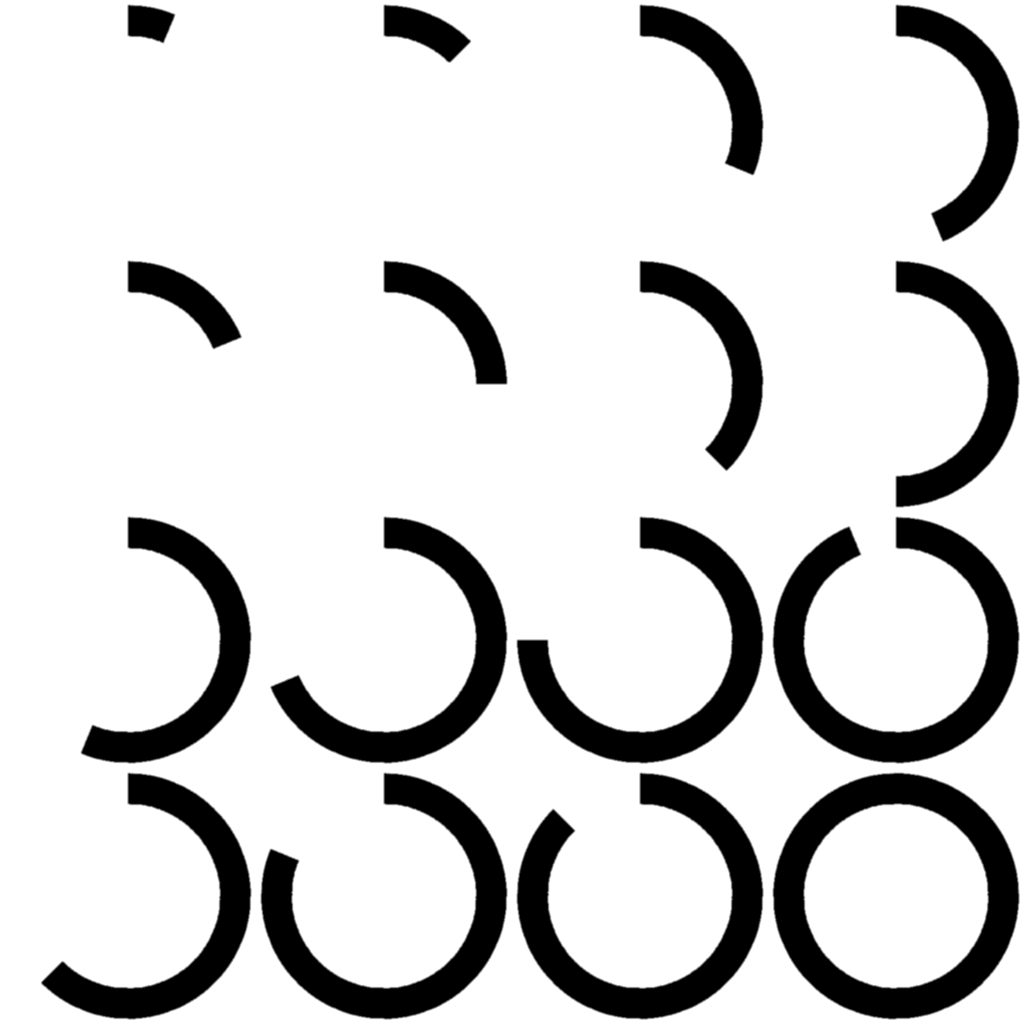
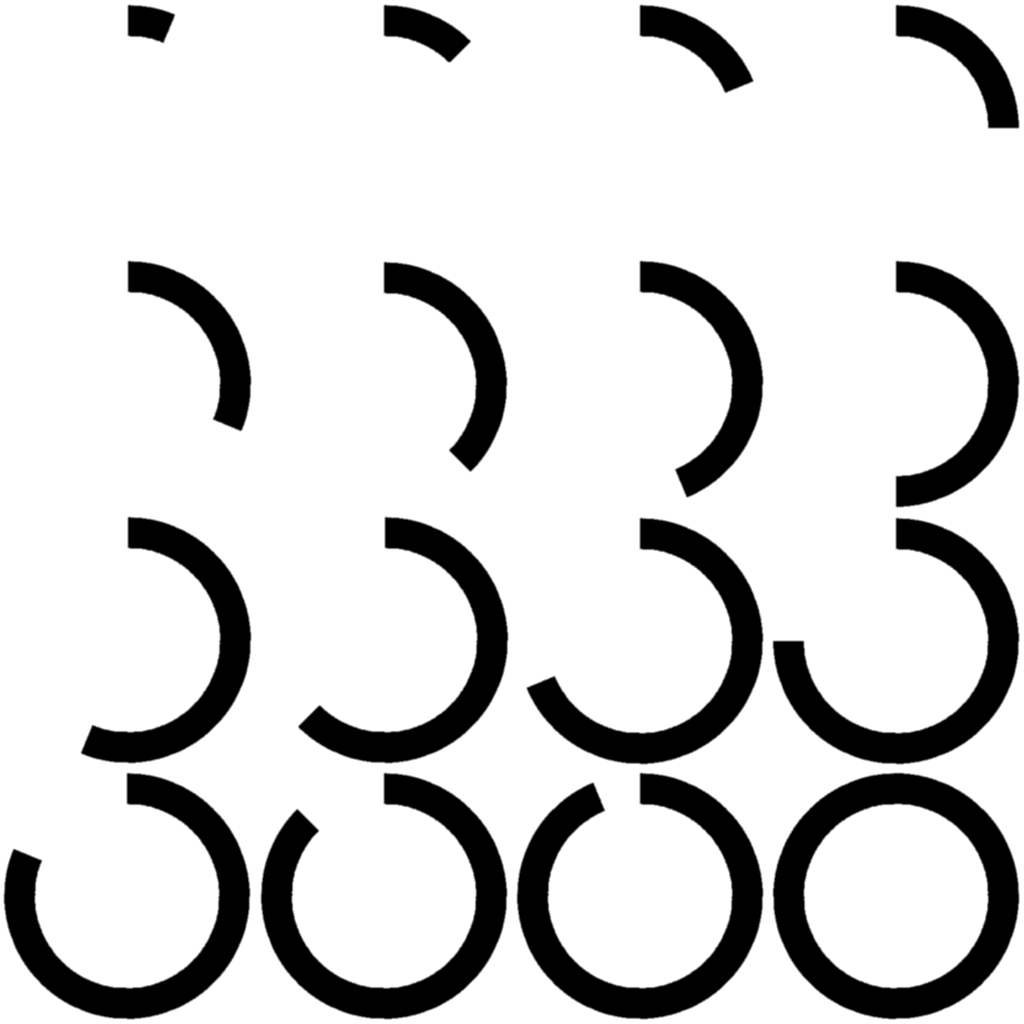
Progress bar progress and entity organization.

diff --git a/src/kosmos/uis/OverlayHUD.java b/src/kosmos/uis/OverlayHUD.java
@@ -10,11 +10,14 @@
 package kosmos.uis;
 
 import flounder.devices.*;
+import flounder.framework.*;
 import flounder.guis.*;
+import flounder.logger.*;
 import flounder.maths.*;
 import flounder.resources.*;
 import flounder.textures.*;
 import kosmos.*;
+import kosmos.world.*;
 
 import java.util.*;
 
@@ -28,9 +31,9 @@ public class OverlayHUD extends GuiComponent {
 
 	public OverlayHUD() {
 		this.hudTexture = TextureFactory.newBuilder().setFile(new MyFile(MyFile.RES_FOLDER, "guis", "hudSprites.png")).setNumberOfRows(3).create();
-		this.statusHealth = new HudStatus(hudTexture, 2, 0.0f);
-		this.statusThirst = new HudStatus(hudTexture, 4, 0.1f);
-		this.statusHunger = new HudStatus(hudTexture, 5, 0.2f);
+		this.statusHealth = new HudStatus(hudTexture, 2, 0.0f, new Colour(1.0f, 0.2f, 0.2f));
+		this.statusThirst = new HudStatus(hudTexture, 4, 0.1f, new Colour(0.2f, 0.2f, 1.0f));
+		this.statusHunger = new HudStatus(hudTexture, 5, 0.2f, new Colour(1.0f, 0.4f, 0.0f));
 
 		this.crossHair = new GuiTexture(TextureFactory.newBuilder().setFile(new MyFile(MyFile.RES_FOLDER, "guis", "crosshair.png")).setNumberOfRows(4).create());
 		this.crossHair.setSelectedRow(KosmosConfigs.HUD_COSSHAIR_TYPE.setReference(() -> crossHair.getSelectedRow()).getInteger());
@@ -68,7 +71,9 @@ public class OverlayHUD extends GuiComponent {
 		private GuiTexture mainIcon;
 		private float offset;
 
-		private HudStatus(TextureObject hudTexture, int main, float offset) {
+		private float progress;
+
+		private HudStatus(TextureObject hudTexture, int main, float offset, Colour colour) {
 			this.background = new GuiTexture(hudTexture);
 			this.background.setSelectedRow(0);
 
@@ -76,8 +81,9 @@ public class OverlayHUD extends GuiComponent {
 			this.foreground.setSelectedRow(1);
 
 			this.circularProgress = new GuiTexture(TextureFactory.newBuilder().setFile(new MyFile(MyFile.RES_FOLDER, "guis", "circularProgress.png")).setNumberOfRows(4).create());
-			this.circularProgress.setSelectedRow((int) Math.floor(Maths.randomInRange(1, 16)));
-			this.circularProgress.setColourOffset(new Colour(1.0f, 0.2f, 0.2f));
+			this.circularProgress.setColourOffset(colour);
+
+			this.progress = (float) Math.random();
 
 			this.mainIcon = new GuiTexture(hudTexture);
 			this.mainIcon.setSelectedRow(main);
@@ -93,7 +99,9 @@ public class OverlayHUD extends GuiComponent {
 			foreground.setPosition(0.06f + offset, 0.94f, 0.08f, 0.08f);
 			foreground.update();
 
+			progress = KosmosWorld.getDayFactor();
 			circularProgress.setPosition(0.06f + offset, 0.94f, 0.08f, 0.08f);
+			circularProgress.setSelectedRow((int) Math.floor(progress * Math.pow(circularProgress.getTexture().getNumberOfRows(), 2)));
 			circularProgress.update();
 
 			mainIcon.setPosition(0.06f + offset, 0.94f, 0.06f, 0.06f);

diff --git a/src/kosmos/entities/instances/rocks/InstanceGemGreen.java b/src/kosmos/entities/instances/rocks/InstanceGemGreen.java
@@ -7,7 +7,7 @@
  * Proprietary and confidential
  */
 
-package kosmos.entities.instances;
+package kosmos.entities.instances.rocks;
 
 import flounder.entities.*;
 import flounder.lights.*;
@@ -19,18 +19,18 @@ import flounder.space.*;
 import flounder.textures.*;
 import kosmos.entities.components.*;
 
-public class InstanceGemRed extends Entity {
-	private static final ModelObject model = ModelFactory.newBuilder().setFile(new MyFile(FlounderEntities.ENTITIES_FOLDER, "gemRed", "gemRed.obj")).create();
-	private static final TextureObject texture = TextureFactory.newBuilder().setFile(new MyFile(FlounderEntities.ENTITIES_FOLDER, "gemRed", "gemRed.png")).create();
-	private static final TextureObject textureGlow = TextureFactory.newBuilder().setFile(new MyFile(FlounderEntities.ENTITIES_FOLDER, "gemRed", "gemRedGlow.png")).create();
+public class InstanceGemGreen extends Entity {
+	private static final ModelObject model = ModelFactory.newBuilder().setFile(new MyFile(FlounderEntities.ENTITIES_FOLDER, "gemGreen", "gemGreen.obj")).create();
+	private static final TextureObject texture = TextureFactory.newBuilder().setFile(new MyFile(FlounderEntities.ENTITIES_FOLDER, "gemGreen", "gemGreen.png")).create();
+	private static final TextureObject textureGlow = TextureFactory.newBuilder().setFile(new MyFile(FlounderEntities.ENTITIES_FOLDER, "gemGreen", "gemGreenGlow.png")).create();
 
-	public InstanceGemRed(ISpatialStructure<Entity> structure, Vector3f position, Vector3f rotation) {
+	public InstanceGemGreen(ISpatialStructure<Entity> structure, Vector3f position, Vector3f rotation) {
 		super(structure, position, rotation);
 
 		ComponentModel componentModel = new ComponentModel(this, 1.0f, model, texture, 1);
 		new ComponentGlow(this, textureGlow);
 		ComponentSurface componentSurface = new ComponentSurface(this, 1.0f, 0.0f, false, false);
-		ComponentLight componentLight = new ComponentLight(this, new Vector3f(0.0f, 1.75f, 0.0f), new Colour(0.878f, 0.271f, 0.271f), new Attenuation(1.0f, 0.02f, 2.0f));
+		ComponentLight componentLight = new ComponentLight(this, new Vector3f(0.0f, 2.5f, 0.0f), new Colour(0.0f, 1.0f, 0.0f), new Attenuation(1.0f, 0.02f, 2.0f));
 		ComponentCollider componentCollider = new ComponentCollider(this);
 		ComponentCollision componentCollision = new ComponentCollision(this);
 	}

diff --git a/src/kosmos/entities/instances/rocks/InstanceGemRed.java b/src/kosmos/entities/instances/rocks/InstanceGemRed.java
@@ -7,7 +7,7 @@
  * Proprietary and confidential
  */
 
-package kosmos.entities.instances;
+package kosmos.entities.instances.rocks;
 
 import flounder.entities.*;
 import flounder.lights.*;
@@ -19,18 +19,18 @@ import flounder.space.*;
 import flounder.textures.*;
 import kosmos.entities.components.*;
 
-public class InstanceGemGreen extends Entity {
-	private static final ModelObject model = ModelFactory.newBuilder().setFile(new MyFile(FlounderEntities.ENTITIES_FOLDER, "gemGreen", "gemGreen.obj")).create();
-	private static final TextureObject texture = TextureFactory.newBuilder().setFile(new MyFile(FlounderEntities.ENTITIES_FOLDER, "gemGreen", "gemGreen.png")).create();
-	private static final TextureObject textureGlow = TextureFactory.newBuilder().setFile(new MyFile(FlounderEntities.ENTITIES_FOLDER, "gemGreen", "gemGreenGlow.png")).create();
+public class InstanceGemRed extends Entity {
+	private static final ModelObject model = ModelFactory.newBuilder().setFile(new MyFile(FlounderEntities.ENTITIES_FOLDER, "gemRed", "gemRed.obj")).create();
+	private static final TextureObject texture = TextureFactory.newBuilder().setFile(new MyFile(FlounderEntities.ENTITIES_FOLDER, "gemRed", "gemRed.png")).create();
+	private static final TextureObject textureGlow = TextureFactory.newBuilder().setFile(new MyFile(FlounderEntities.ENTITIES_FOLDER, "gemRed", "gemRedGlow.png")).create();
 
-	public InstanceGemGreen(ISpatialStructure<Entity> structure, Vector3f position, Vector3f rotation) {
+	public InstanceGemRed(ISpatialStructure<Entity> structure, Vector3f position, Vector3f rotation) {
 		super(structure, position, rotation);
 
 		ComponentModel componentModel = new ComponentModel(this, 1.0f, model, texture, 1);
 		new ComponentGlow(this, textureGlow);
 		ComponentSurface componentSurface = new ComponentSurface(this, 1.0f, 0.0f, false, false);
-		ComponentLight componentLight = new ComponentLight(this, new Vector3f(0.0f, 2.5f, 0.0f), new Colour(0.0f, 1.0f, 0.0f), new Attenuation(1.0f, 0.02f, 2.0f));
+		ComponentLight componentLight = new ComponentLight(this, new Vector3f(0.0f, 1.75f, 0.0f), new Colour(0.878f, 0.271f, 0.271f), new Attenuation(1.0f, 0.02f, 2.0f));
 		ComponentCollider componentCollider = new ComponentCollider(this);
 		ComponentCollision componentCollision = new ComponentCollision(this);
 	}

diff --git a/src/kosmos/entities/instances/trees/InstanceTreePine.java b/src/kosmos/entities/instances/trees/InstanceTreePine.java
@@ -7,7 +7,7 @@
  * Proprietary and confidential
  */
 
-package kosmos.entities.instances;
+package kosmos.entities.instances.trees;
 
 import flounder.entities.*;
 import flounder.maths.vectors.*;
@@ -17,16 +17,17 @@ import flounder.space.*;
 import flounder.textures.*;
 import kosmos.entities.components.*;
 
-public class InstanceLilipad extends Entity {
-	private static final ModelObject model = ModelFactory.newBuilder().setFile(new MyFile(FlounderEntities.ENTITIES_FOLDER, "lilipad", "lilipad.obj")).create();
-	private static final TextureObject texture = TextureFactory.newBuilder().setFile(new MyFile(FlounderEntities.ENTITIES_FOLDER, "lilipad", "lilipadTexture.png")).create();
+public class InstanceTreePine extends Entity {
+	private static final ModelObject model = ModelFactory.newBuilder().setFile(new MyFile(FlounderEntities.ENTITIES_FOLDER, "treePine", "treePine.obj")).create();
+	private static final TextureObject texture = TextureFactory.newBuilder().setFile(new MyFile(FlounderEntities.ENTITIES_FOLDER, "treePine", "treePine.png")).create();
+	private static final TextureObject textureSway = TextureFactory.newBuilder().setFile(new MyFile(FlounderEntities.ENTITIES_FOLDER, "treePine", "treePineSway.png")).create();
 
-	public InstanceLilipad(ISpatialStructure<Entity> structure, Vector3f position, Vector3f rotation) {
+	public InstanceTreePine(ISpatialStructure<Entity> structure, Vector3f position, Vector3f rotation) {
 		super(structure, position, rotation);
 
-		new ComponenWaterBob(this);
 		ComponentModel componentModel = new ComponentModel(this, 1.0f, model, texture, 1);
 		ComponentSurface componentSurface = new ComponentSurface(this, 1.0f, 0.0f, false, false);
+		ComponentSway componentSway = new ComponentSway(this, textureSway);
 		ComponentCollider componentCollider = new ComponentCollider(this);
 		ComponentCollision componentCollision = new ComponentCollision(this);
 	}

diff --git a/src/kosmos/entities/instances/plants/InstanceLilipad.java b/src/kosmos/entities/instances/plants/InstanceLilipad.java
@@ -7,7 +7,7 @@
  * Proprietary and confidential
  */
 
-package kosmos.entities.instances;
+package kosmos.entities.instances.plants;
 
 import flounder.entities.*;
 import flounder.maths.vectors.*;
@@ -17,17 +17,16 @@ import flounder.space.*;
 import flounder.textures.*;
 import kosmos.entities.components.*;
 
-public class InstanceCactus2 extends Entity {
-	private static final ModelObject model = ModelFactory.newBuilder().setFile(new MyFile(FlounderEntities.ENTITIES_FOLDER, "cactus2", "cactus2.obj")).create();
-	private static final TextureObject texture = TextureFactory.newBuilder().setFile(new MyFile(FlounderEntities.ENTITIES_FOLDER, "cactus2", "cactus2.png")).create();
-	private static final TextureObject textureSway = TextureFactory.newBuilder().setFile(new MyFile(FlounderEntities.ENTITIES_FOLDER, "cactus2", "cactusSway2.png")).create();
+public class InstanceLilipad extends Entity {
+	private static final ModelObject model = ModelFactory.newBuilder().setFile(new MyFile(FlounderEntities.ENTITIES_FOLDER, "lilipad", "lilipad.obj")).create();
+	private static final TextureObject texture = TextureFactory.newBuilder().setFile(new MyFile(FlounderEntities.ENTITIES_FOLDER, "lilipad", "lilipadTexture.png")).create();
 
-	public InstanceCactus2(ISpatialStructure<Entity> structure, Vector3f position, Vector3f rotation) {
+	public InstanceLilipad(ISpatialStructure<Entity> structure, Vector3f position, Vector3f rotation) {
 		super(structure, position, rotation);
 
+		new ComponenWaterBob(this);
 		ComponentModel componentModel = new ComponentModel(this, 1.0f, model, texture, 1);
 		ComponentSurface componentSurface = new ComponentSurface(this, 1.0f, 0.0f, false, false);
-		ComponentSway componentSway = new ComponentSway(this, textureSway);
 		ComponentCollider componentCollider = new ComponentCollider(this);
 		ComponentCollision componentCollision = new ComponentCollision(this);
 	}

diff --git a/src/kosmos/entities/instances/plants/InstanceFlowerpatch1.java b/src/kosmos/entities/instances/plants/InstanceFlowerpatch1.java
@@ -7,7 +7,7 @@
  * Proprietary and confidential
  */
 
-package kosmos.entities.instances;
+package kosmos.entities.instances.plants;
 
 import flounder.entities.*;
 import flounder.maths.vectors.*;
@@ -17,12 +17,12 @@ import flounder.space.*;
 import flounder.textures.*;
 import kosmos.entities.components.*;
 
-public class InstanceTreePine extends Entity {
-	private static final ModelObject model = ModelFactory.newBuilder().setFile(new MyFile(FlounderEntities.ENTITIES_FOLDER, "treePine", "treePine.obj")).create();
-	private static final TextureObject texture = TextureFactory.newBuilder().setFile(new MyFile(FlounderEntities.ENTITIES_FOLDER, "treePine", "treePine.png")).create();
-	private static final TextureObject textureSway = TextureFactory.newBuilder().setFile(new MyFile(FlounderEntities.ENTITIES_FOLDER, "treePine", "treePineSway.png")).create();
+public class InstanceFlowerpatch1 extends Entity {
+	private static final ModelObject model = ModelFactory.newBuilder().setFile(new MyFile(FlounderEntities.ENTITIES_FOLDER, "flowerpatch1", "flowerpatch1.obj")).create();
+	private static final TextureObject texture = TextureFactory.newBuilder().setFile(new MyFile(FlounderEntities.ENTITIES_FOLDER, "flowerpatch1", "flowerpatch1.png")).create();
+	private static final TextureObject textureSway = TextureFactory.newBuilder().setFile(new MyFile(FlounderEntities.ENTITIES_FOLDER, "flowerpatch1", "flowerpatch1.png")).create();
 
-	public InstanceTreePine(ISpatialStructure<Entity> structure, Vector3f position, Vector3f rotation) {
+	public InstanceFlowerpatch1(ISpatialStructure<Entity> structure, Vector3f position, Vector3f rotation) {
 		super(structure, position, rotation);
 
 		ComponentModel componentModel = new ComponentModel(this, 1.0f, model, texture, 1);

diff --git a/src/kosmos/entities/instances/trees/InstanceTreePalm.java b/src/kosmos/entities/instances/trees/InstanceTreePalm.java
@@ -7,7 +7,7 @@
  * Proprietary and confidential
  */
 
-package kosmos.entities.instances;
+package kosmos.entities.instances.trees;
 
 import flounder.entities.*;
 import flounder.maths.vectors.*;
@@ -17,12 +17,12 @@ import flounder.space.*;
 import flounder.textures.*;
 import kosmos.entities.components.*;
 
-public class InstanceFlowerpatch1 extends Entity {
-	private static final ModelObject model = ModelFactory.newBuilder().setFile(new MyFile(FlounderEntities.ENTITIES_FOLDER, "flowerpatch1", "flowerpatch1.obj")).create();
-	private static final TextureObject texture = TextureFactory.newBuilder().setFile(new MyFile(FlounderEntities.ENTITIES_FOLDER, "flowerpatch1", "flowerpatch1.png")).create();
-	private static final TextureObject textureSway = TextureFactory.newBuilder().setFile(new MyFile(FlounderEntities.ENTITIES_FOLDER, "flowerpatch1", "flowerpatch1.png")).create();
+public class InstanceTreePalm extends Entity {
+	private static final ModelObject model = ModelFactory.newBuilder().setFile(new MyFile(FlounderEntities.ENTITIES_FOLDER, "treePalm", "treePalm.obj")).create();
+	private static final TextureObject texture = TextureFactory.newBuilder().setFile(new MyFile(FlounderEntities.ENTITIES_FOLDER, "treePalm", "treePalm.png")).create();
+	private static final TextureObject textureSway = TextureFactory.newBuilder().setFile(new MyFile(FlounderEntities.ENTITIES_FOLDER, "treePalm", "treePalmSway.png")).create();
 
-	public InstanceFlowerpatch1(ISpatialStructure<Entity> structure, Vector3f position, Vector3f rotation) {
+	public InstanceTreePalm(ISpatialStructure<Entity> structure, Vector3f position, Vector3f rotation) {
 		super(structure, position, rotation);
 
 		ComponentModel componentModel = new ComponentModel(this, 1.0f, model, texture, 1);

diff --git a/src/kosmos/entities/instances/trees/InstanceTreeBlossom.java b/src/kosmos/entities/instances/trees/InstanceTreeBlossom.java
@@ -7,7 +7,7 @@
  * Proprietary and confidential
  */
 
-package kosmos.entities.instances;
+package kosmos.entities.instances.trees;
 
 import flounder.entities.*;
 import flounder.maths.vectors.*;
@@ -17,12 +17,12 @@ import flounder.space.*;
 import flounder.textures.*;
 import kosmos.entities.components.*;
 
-public class InstanceTreePalm extends Entity {
-	private static final ModelObject model = ModelFactory.newBuilder().setFile(new MyFile(FlounderEntities.ENTITIES_FOLDER, "treePalm", "treePalm.obj")).create();
-	private static final TextureObject texture = TextureFactory.newBuilder().setFile(new MyFile(FlounderEntities.ENTITIES_FOLDER, "treePalm", "treePalm.png")).create();
-	private static final TextureObject textureSway = TextureFactory.newBuilder().setFile(new MyFile(FlounderEntities.ENTITIES_FOLDER, "treePalm", "treePalmSway.png")).create();
+public class InstanceTreeBlossom extends Entity {
+	private static final ModelObject model = ModelFactory.newBuilder().setFile(new MyFile(FlounderEntities.ENTITIES_FOLDER, "treeBlossom", "treeBlossom.obj")).create();
+	private static final TextureObject texture = TextureFactory.newBuilder().setFile(new MyFile(FlounderEntities.ENTITIES_FOLDER, "treeBlossom", "treeBlossom.png")).create();
+	private static final TextureObject textureSway = TextureFactory.newBuilder().setFile(new MyFile(FlounderEntities.ENTITIES_FOLDER, "treeBlossom", "treeBlossomSway.png")).create();
 
-	public InstanceTreePalm(ISpatialStructure<Entity> structure, Vector3f position, Vector3f rotation) {
+	public InstanceTreeBlossom(ISpatialStructure<Entity> structure, Vector3f position, Vector3f rotation) {
 		super(structure, position, rotation);
 
 		ComponentModel componentModel = new ComponentModel(this, 1.0f, model, texture, 1);

diff --git a/src/kosmos/entities/instances/trees/InstanceTreeSnow.java b/src/kosmos/entities/instances/trees/InstanceTreeSnow.java
@@ -7,7 +7,7 @@
  * Proprietary and confidential
  */
 
-package kosmos.entities.instances;
+package kosmos.entities.instances.trees;
 
 import flounder.entities.*;
 import flounder.maths.vectors.*;
@@ -17,12 +17,12 @@ import flounder.space.*;
 import flounder.textures.*;
 import kosmos.entities.components.*;
 
-public class InstanceTallGrass extends Entity {
-	private static final ModelObject model = ModelFactory.newBuilder().setFile(new MyFile(FlounderEntities.ENTITIES_FOLDER, "tallGrass", "tallGrass.obj")).create();
-	private static final TextureObject texture = TextureFactory.newBuilder().setFile(new MyFile(FlounderEntities.ENTITIES_FOLDER, "tallGrass", "tallGrass.png")).create();
-	private static final TextureObject textureSway = TextureFactory.newBuilder().setFile(new MyFile(FlounderEntities.ENTITIES_FOLDER, "tallGrass", "tallGrass.png")).create();
+public class InstanceTreeSnow extends Entity {
+	private static final ModelObject model = ModelFactory.newBuilder().setFile(new MyFile(FlounderEntities.ENTITIES_FOLDER, "treeSnow", "treeSnow.obj")).create();
+	private static final TextureObject texture = TextureFactory.newBuilder().setFile(new MyFile(FlounderEntities.ENTITIES_FOLDER, "treeSnow", "treeSnow.png")).create();
+	private static final TextureObject textureSway = TextureFactory.newBuilder().setFile(new MyFile(FlounderEntities.ENTITIES_FOLDER, "treeSnow", "treeSnowSway.png")).create();
 
-	public InstanceTallGrass(ISpatialStructure<Entity> structure, Vector3f position, Vector3f rotation) {
+	public InstanceTreeSnow(ISpatialStructure<Entity> structure, Vector3f position, Vector3f rotation) {
 		super(structure, position, rotation);
 
 		ComponentModel componentModel = new ComponentModel(this, 1.0f, model, texture, 1);

diff --git a/src/kosmos/entities/instances/trees/InstanceTree1.java b/src/kosmos/entities/instances/trees/InstanceTree1.java
@@ -7,7 +7,7 @@
  * Proprietary and confidential
  */
 
-package kosmos.entities.instances;
+package kosmos.entities.instances.trees;
 
 import flounder.entities.*;
 import flounder.maths.vectors.*;
@@ -17,12 +17,12 @@ import flounder.space.*;
 import flounder.textures.*;
 import kosmos.entities.components.*;
 
-public class InstanceTreeBlossom extends Entity {
-	private static final ModelObject model = ModelFactory.newBuilder().setFile(new MyFile(FlounderEntities.ENTITIES_FOLDER, "treeBlossom", "treeBlossom.obj")).create();
-	private static final TextureObject texture = TextureFactory.newBuilder().setFile(new MyFile(FlounderEntities.ENTITIES_FOLDER, "treeBlossom", "treeBlossom.png")).create();
-	private static final TextureObject textureSway = TextureFactory.newBuilder().setFile(new MyFile(FlounderEntities.ENTITIES_FOLDER, "treeBlossom", "treeBlossomSway.png")).create();
+public class InstanceTree1 extends Entity {
+	private static final ModelObject model = ModelFactory.newBuilder().setFile(new MyFile(FlounderEntities.ENTITIES_FOLDER, "tree1", "tree1.obj")).create();
+	private static final TextureObject texture = TextureFactory.newBuilder().setFile(new MyFile(FlounderEntities.ENTITIES_FOLDER, "tree1", "tree1.png")).create();
+	private static final TextureObject textureSway = TextureFactory.newBuilder().setFile(new MyFile(FlounderEntities.ENTITIES_FOLDER, "tree1", "tree1Sway.png")).create();
 
-	public InstanceTreeBlossom(ISpatialStructure<Entity> structure, Vector3f position, Vector3f rotation) {
+	public InstanceTree1(ISpatialStructure<Entity> structure, Vector3f position, Vector3f rotation) {
 		super(structure, position, rotation);
 
 		ComponentModel componentModel = new ComponentModel(this, 1.0f, model, texture, 1);

diff --git a/src/kosmos/entities/instances/plants/InstanceCattail.java b/src/kosmos/entities/instances/plants/InstanceCattail.java
@@ -7,7 +7,7 @@
  * Proprietary and confidential
  */
 
-package kosmos.entities.instances;
+package kosmos.entities.instances.plants;
 
 import flounder.entities.*;
 import flounder.maths.vectors.*;
@@ -17,12 +17,12 @@ import flounder.space.*;
 import flounder.textures.*;
 import kosmos.entities.components.*;
 
-public class InstanceTreeSnow extends Entity {
-	private static final ModelObject model = ModelFactory.newBuilder().setFile(new MyFile(FlounderEntities.ENTITIES_FOLDER, "treeSnow", "treeSnow.obj")).create();
-	private static final TextureObject texture = TextureFactory.newBuilder().setFile(new MyFile(FlounderEntities.ENTITIES_FOLDER, "treeSnow", "treeSnow.png")).create();
-	private static final TextureObject textureSway = TextureFactory.newBuilder().setFile(new MyFile(FlounderEntities.ENTITIES_FOLDER, "treeSnow", "treeSnowSway.png")).create();
+public class InstanceCattail extends Entity {
+	private static final ModelObject model = ModelFactory.newBuilder().setFile(new MyFile(FlounderEntities.ENTITIES_FOLDER, "cattail", "cattail.obj")).create();
+	private static final TextureObject texture = TextureFactory.newBuilder().setFile(new MyFile(FlounderEntities.ENTITIES_FOLDER, "cattail", "cattail.png")).create();
+	private static final TextureObject textureSway = TextureFactory.newBuilder().setFile(new MyFile(FlounderEntities.ENTITIES_FOLDER, "cattail", "cattailSway.png")).create();
 
-	public InstanceTreeSnow(ISpatialStructure<Entity> structure, Vector3f position, Vector3f rotation) {
+	public InstanceCattail(ISpatialStructure<Entity> structure, Vector3f position, Vector3f rotation) {
 		super(structure, position, rotation);
 
 		ComponentModel componentModel = new ComponentModel(this, 1.0f, model, texture, 1);

diff --git a/src/kosmos/entities/instances/plants/InstanceCactus2.java b/src/kosmos/entities/instances/plants/InstanceCactus2.java
@@ -7,7 +7,7 @@
  * Proprietary and confidential
  */
 
-package kosmos.entities.instances;
+package kosmos.entities.instances.plants;
 
 import flounder.entities.*;
 import flounder.maths.vectors.*;
@@ -17,12 +17,12 @@ import flounder.space.*;
 import flounder.textures.*;
 import kosmos.entities.components.*;
 
-public class InstanceCattail extends Entity {
-	private static final ModelObject model = ModelFactory.newBuilder().setFile(new MyFile(FlounderEntities.ENTITIES_FOLDER, "cattail", "cattail.obj")).create();
-	private static final TextureObject texture = TextureFactory.newBuilder().setFile(new MyFile(FlounderEntities.ENTITIES_FOLDER, "cattail", "cattail.png")).create();
-	private static final TextureObject textureSway = TextureFactory.newBuilder().setFile(new MyFile(FlounderEntities.ENTITIES_FOLDER, "cattail", "cattailSway.png")).create();
+public class InstanceCactus2 extends Entity {
+	private static final ModelObject model = ModelFactory.newBuilder().setFile(new MyFile(FlounderEntities.ENTITIES_FOLDER, "cactus2", "cactus2.obj")).create();
+	private static final TextureObject texture = TextureFactory.newBuilder().setFile(new MyFile(FlounderEntities.ENTITIES_FOLDER, "cactus2", "cactus2.png")).create();
+	private static final TextureObject textureSway = TextureFactory.newBuilder().setFile(new MyFile(FlounderEntities.ENTITIES_FOLDER, "cactus2", "cactusSway2.png")).create();
 
-	public InstanceCattail(ISpatialStructure<Entity> structure, Vector3f position, Vector3f rotation) {
+	public InstanceCactus2(ISpatialStructure<Entity> structure, Vector3f position, Vector3f rotation) {
 		super(structure, position, rotation);
 
 		ComponentModel componentModel = new ComponentModel(this, 1.0f, model, texture, 1);
